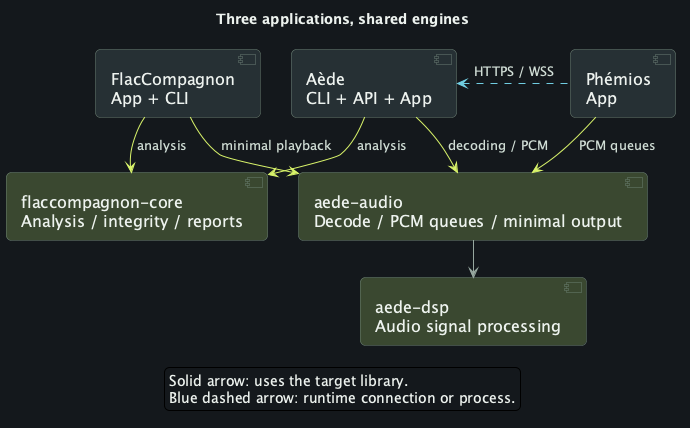
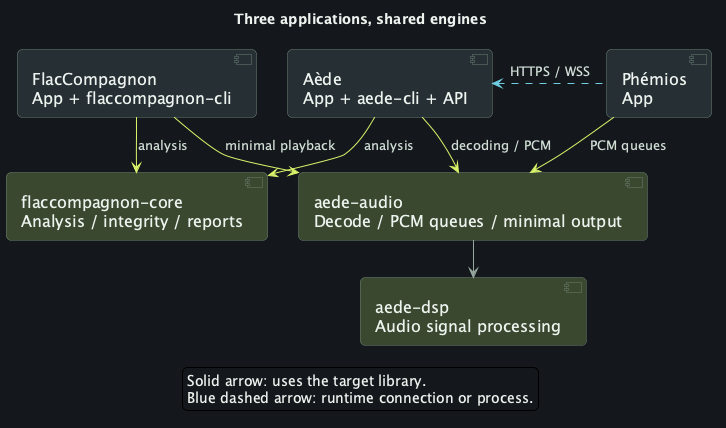
Add complete ecosystem diagrams and clarify CLI ownership

diff --git a/tools/render-ecosystem-diagrams.py b/tools/render-ecosystem-diagrams.py
@@ -64,10 +64,10 @@ def node(alias, language):
 
 def diagram(kind, language):
     fr = language == "fr"
-    title = ("Trois applications, des moteurs partagés" if fr else "Three applications, shared engines") if kind == "overview" else {"aede": "Aède", "flaccompagnon": "FlacCompagnon", "phemios": "Phémios"}[kind]
+    title = ("Trois applications, des moteurs partagés" if fr else "Three applications, shared engines") if kind == "overview" else {"aede": "Aède", "flaccompagnon": "FlacCompagnon", "phemios": "Phémios", "complete": "Écosystème complet" if fr else "Complete ecosystem"}[kind]
     lines = [f"@startuml {language}-{kind}", STYLE, f"title {title}"]
     if kind == "overview":
-        for alias, label in [("Flac", "FlacCompagnon\\nApp + CLI"), ("Aede", "Aède\\nCLI + API + App"), ("Phemios", "Phémios\\nApp")]:
+        for alias, label in [("Flac", "FlacCompagnon\\nApp + flaccompagnon-cli"), ("Aede", "Aède\\nApp + aede-cli + API"), ("Phemios", "Phémios\\nApp")]:
             lines.append(f'component "{label}" as {alias}')
         lines += [node(alias, language) for alias in ("FCore", "AAudio", "ADsp")]
         lines += ["Flac -[hidden]right-> Aede", "Aede -[hidden]right-> Phemios", 'Flac -[#D8F36A]-> FCore : ' + ("analyse" if fr else "analysis"), 'Aede -[#D8F36A]-> FCore : ' + ("analyse" if fr else "analysis"), 'Flac -[#D8F36A]-> AAudio : ' + ("lecture minimale" if fr else "minimal playback"), 'Aede -[#D8F36A]-> AAudio : ' + ("décodage / PCM" if fr else "decoding / PCM"), 'Phemios -[#D8F36A]-> AAudio : ' + ("files PCM" if fr else "PCM queues"), "AAudio --> ADsp", 'Phemios -[#71CDE1,dashed]left-> Aede : HTTPS / WSS']
@@ -76,19 +76,23 @@ def diagram(kind, language):
             "flaccompagnon": [("FlacCompagnon", ["FApp", "FCli", "FServices", "FCore"]), ("Aède · socle partagé" if fr else "Aède · shared foundation", ["AAudio", "ADsp"])],
             "aede": [("Console desktop" if fr else "Desktop console", ["AApp", "AConsole"]), ("Moteur Aède" if fr else "Aède engine", ["ACli", "AServer", "ADevices", "ACore", "AAccounts", "AMoods", "AAudio", "ADsp"]), ("FlacCompagnon", ["FCore"])],
             "phemios": [("Phémios", ["PApp", "PCore", "PCd", "PTransfer"]), ("Aède · socle partagé" if fr else "Aède · shared foundation", ["AAudio", "ADsp"])],
+            "complete": [("FlacCompagnon", ["FApp", "FCli", "FServices", "FCore"]), ("Aède", ["AApp", "AConsole", "ACli", "AServer", "ADevices", "ACore", "AAccounts", "AMoods", "AAudio", "ADsp"]), ("Phémios", ["PApp", "PCore", "PCd", "PTransfer"])],
         }
         for label, aliases in groups[kind]:
             lines += [f'package "{label}" {{'] + [node(alias, language) for alias in aliases] + ["}"]
         if kind == "flaccompagnon":
             lines.append("AAudio --> ADsp : output")
-        for edge in EDGES[kind]:
+        edges = list(dict.fromkeys(edge for application in EDGES.values() for edge in application)) if kind == "complete" else EDGES[kind]
+        for edge in edges:
             source, target, *label = edge
             color = " -[#D8F36A]-> " if (source.startswith("F") != target.startswith("F") or source.startswith("P") != target.startswith("P")) else " --> "
             lines.append(source + color + target + (" : " + label[0] if label else ""))
-        if kind == "aede":
+        if kind in ("aede", "complete"):
             lines.append('AConsole -[#71CDE1,dashed]right-> ACli : ' + ("lance un processus" if fr else "starts a process"))
         if kind == "phemios":
             lines += ['component "aede-server\\nHTTPS / WSS" as AServer', "PCore -[#71CDE1,dashed]-> AServer : API", 'PApp -[#71CDE1,dashed]-> AServer : ' + ("via le pont natif" if fr else "via native bridge")]
+        if kind == "complete":
+            lines += ["PCore -[#71CDE1,dashed]-> AServer : HTTPS / WSS", 'PApp -[#71CDE1,dashed]-> AServer : ' + ("via le pont natif" if fr else "via native bridge")]
     lines += ["legend bottom", ("Flèche pleine : utilise la bibliothèque cible." if fr else "Solid arrow: uses the target library."), ("Pointillés bleus : connexion ou processus à l’exécution." if fr else "Blue dashed arrow: runtime connection or process."), "endlegend", "@enduml", ""]
     return "\n".join(lines)
 
@@ -104,13 +108,13 @@ def main():
     assets.mkdir(parents=True, exist_ok=True)
     command = [args.java, "-Djava.awt.headless=true", "-DPLANTUML_SECURITY_PROFILE=SANDBOX", "-jar", str(args.jar.resolve())]
     for language in ("en", "fr"):
-        for kind in ("overview", "aede", "flaccompagnon", "phemios"):
+        for kind in ("overview", "aede", "flaccompagnon", "phemios", "complete"):
             source = sources / f"{language}-{kind}.puml"
             source.write_text(diagram(kind, language), encoding="utf-8")
             subprocess.run(command + ["--check-syntax", str(source)], check=True)
             for extension in ("svg", "png"):
                 subprocess.run(command + ["--format", extension, "--output-dir", str(assets), str(source)], check=True)
-    print("Eight bilingual diagrams validated and rendered locally.")
+    print("Ten bilingual diagrams validated and rendered locally.")
 
 
 if __name__ == "__main__":

diff --git a/tools/build_site_tests.py b/tools/build_site_tests.py
@@ -157,7 +157,7 @@ class HomeTests(unittest.TestCase):
             for language in ("en", "fr"):
                 page = (destination / f"docs/{language}/manual/ecosystem.html").read_text(encoding="utf-8")
                 self.assertEqual(page.count('<details class="ecosystem-detail">'), 3)
-                for kind in ("overview", "aede", "flaccompagnon", "phemios"):
+                for kind in ("overview", "aede", "flaccompagnon", "phemios", "complete"):
                     name = f"{language}-{kind}"
                     self.assertIn(f'assets/architecture/{name}.svg', page)
                     self.assertNotIn(f'assets/architecture/{"fr" if language == "en" else "en"}-{kind}.svg', page)

diff --git a/docs/fr/manual/ecosystem.md b/docs/fr/manual/ecosystem.md
@@ -2,11 +2,11 @@
 
 FlacCompagnon analyse la qualité et l’intégrité des fichiers audio. Aède organise le catalogue musical, ses métadonnées et ses accès, et fournit les services de lecture et de serveur. Phémios est l’interface pour explorer cette bibliothèque et écouter sa musique.
 
-Leurs crates Rust partagent deux socles : `flaccompagnon-core` pour les analyses, et `aede-audio` / `aede-dsp` pour les primitives de lecture audio. La vue d’ensemble présente ces réutilisations ; les trois schémas dépliables détaillent ensuite les composants de chaque application.
+Leurs crates Rust partagent deux socles : `flaccompagnon-core` pour les analyses, et `aede-audio` / `aede-dsp` pour les primitives de lecture audio. La vue d’ensemble présente ces réutilisations ; les trois schémas dépliables détaillent ensuite les composants de chaque application. Un diagramme complet réunit toutes les crates en fin de page.
 
 ## Vue d’ensemble
 
-<figure class="ecosystem-diagram"><a href="../../../site/assets/architecture/fr-overview.svg"><img src="../../../site/assets/architecture/fr-overview.svg" alt="Partage du moteur d’analyse et du socle audio" width="686" height="429" loading="lazy"></a><figcaption>Partage du moteur d’analyse et du socle audio</figcaption></figure>
+<figure class="ecosystem-diagram"><a href="../../../site/assets/architecture/fr-overview.svg"><img src="../../../site/assets/architecture/fr-overview.svg" alt="Partage du moteur d’analyse et du socle audio" width="730" height="429" loading="lazy"></a><figcaption>Partage du moteur d’analyse et du socle audio</figcaption></figure>
 
 [Ouvrir le SVG](../../../site/assets/architecture/fr-overview.svg) · [PNG](../../../site/assets/architecture/fr-overview.png) · [PlantUML](../../diagrams/ecosystem/fr-overview.puml)
 
@@ -19,6 +19,8 @@ Leurs crates Rust partagent deux socles : `flaccompagnon-core` pour les analyses
 ### FlacCompagnon — analyser et examiner
 
 `flaccompagnon` est l’App desktop ; `flaccompagnon-cli` est l’analyseur en ligne de commande. Ils utilisent `flaccompagnon-core`, tandis que `flaccompagnon-services` gère l’édition des tags, les conversions et l’organisation des fichiers.
+
+FlacCompagnon n’embarque pas et ne lance pas `aede-cli`. Sa CLI est bien `flaccompagnon-cli` ; seules les bibliothèques audio d’Aède sont réutilisées pour la préécoute.
 
 L’App utilise `aede-audio/output` pour une lecture locale minimale, sans serveur ni compte Aède, normalisation ou fondu. Son cœur utilise aussi `aede-audio/decode` pour les fonctions de lecture. L’analyse conserve son propre décodage et ses mesures à la précision d’origine : les traitements de préécoute ne modifient pas ses résultats.
 
@@ -73,3 +75,11 @@ La préparation des builds natifs des clients sélectionne une version stable pu
 Les schémas couvrent les 18 crates de production des trois dépôts, y compris le workspace desktop indépendant d’Aède. Les dépendances tierces, de build et de développement, ainsi que la crate de test `phemios-glib-regression`, sont omises. Ils ne certifient pas la compatibilité des appareils physiques.
 
 Pour les limites des fonctionnalités et les règles de mise à jour, consultez le [socle audio commun](../../design/shared-audio.md). Poursuivez avec l’[App serveur](../desktop.md) ou l’[API native](../api.md).
+
+## Écosystème complet
+
+Cette vue réunit les 18 crates et leurs dépendances directes entre projets ou au sein de chaque projet. Chaque cadre indique le dépôt qui maintient les crates : `aede-cli` appartient à Aède, `flaccompagnon-cli` à FlacCompagnon. Les liaisons bleues restent des communications à l’exécution, distinctes des dépendances Cargo. Ouvrez le SVG pour examiner le schéma en grand.
+
+<figure class="ecosystem-diagram"><a href="../../../site/assets/architecture/fr-complete.svg"><img src="../../../site/assets/architecture/fr-complete.svg" alt="Les 18 crates de FlacCompagnon, Aède et Phémios et leurs liens" width="2537" height="975" loading="lazy"></a><figcaption>Les trois programmes et leurs bibliothèques partagées, réunis dans une seule vue</figcaption></figure>
+
+[Ouvrir le SVG](../../../site/assets/architecture/fr-complete.svg) · [PNG](../../../site/assets/architecture/fr-complete.png) · [PlantUML](../../diagrams/ecosystem/fr-complete.puml)

diff --git a/docs/manual/ecosystem.md b/docs/manual/ecosystem.md
@@ -2,11 +2,11 @@
 
 FlacCompagnon checks audio quality and integrity. Aède organizes the music catalogue, its metadata and access, and supplies server and playback services. Phémios is the interface for exploring the library and listening to music.
 
-Their Rust crates share two foundations: `flaccompagnon-core` for analysis, and `aede-audio` / `aede-dsp` for audio playback primitives. The overview shows these reuse boundaries; the three expandable diagrams below show each application's own components.
+Their Rust crates share two foundations: `flaccompagnon-core` for analysis, and `aede-audio` / `aede-dsp` for audio playback primitives. The overview shows these reuse boundaries; the three expandable diagrams below show each application's own components. A complete diagram brings every crate together at the end of the page.
 
 ## At a glance
 
-<figure class="ecosystem-diagram"><a href="../../site/assets/architecture/en-overview.svg"><img src="../../site/assets/architecture/en-overview.svg" alt="Shared analysis and audio foundations" width="691" height="429" loading="lazy"></a><figcaption>Shared analysis and audio foundations</figcaption></figure>
+<figure class="ecosystem-diagram"><a href="../../site/assets/architecture/en-overview.svg"><img src="../../site/assets/architecture/en-overview.svg" alt="Shared analysis and audio foundations" width="727" height="429" loading="lazy"></a><figcaption>Shared analysis and audio foundations</figcaption></figure>
 
 [Open SVG](../../site/assets/architecture/en-overview.svg) · [PNG](../../site/assets/architecture/en-overview.png) · [PlantUML](../diagrams/ecosystem/en-overview.puml)
 
@@ -19,6 +19,8 @@ Their Rust crates share two foundations: `flaccompagnon-core` for analysis, and 
 ### FlacCompagnon — analyze and inspect
 
 `flaccompagnon` is the desktop App; `flaccompagnon-cli` is the command-line analyzer. They use `flaccompagnon-core`, while `flaccompagnon-services` owns tag editing, conversions and file organization.
+
+FlacCompagnon does not embed or launch `aede-cli`. Its CLI is `flaccompagnon-cli`; only Aède's audio libraries are reused for preview playback.
 
 The App uses `aede-audio/output` for minimal local playback, without an Aède server/account, normalization or crossfade. Its core also uses `aede-audio/decode` for playback helpers. Actual analysis keeps its own original-precision decoding and measurements: preview processing does not alter analysis results.
 
@@ -73,3 +75,11 @@ Native client build preparation selects a published stable Aède release and rec
 These diagrams cover all 18 production crates across the three repositories, including Aède's independent desktop workspace. Third-party dependencies, build/dev dependencies and the `phemios-glib-regression` test crate are omitted. The diagrams do not certify physical-device compatibility.
 
 For feature boundaries and update rules, read the [shared audio foundation](../design/shared-audio.md). Continue with the [server App](../desktop.md) or the [native API](../api.md).
+
+## Complete ecosystem
+
+This view brings together all 18 crates and their direct dependencies, both within and across projects. Each frame identifies the repository maintaining its crates: `aede-cli` belongs to Aède, `flaccompagnon-cli` to FlacCompagnon. Blue connections remain runtime communication, separate from Cargo dependencies. Open the SVG to inspect the diagram at full size.
+
+<figure class="ecosystem-diagram"><a href="../../site/assets/architecture/en-complete.svg"><img src="../../site/assets/architecture/en-complete.svg" alt="All 18 FlacCompagnon, Aède and Phémios crates and their connections" width="2399" height="975" loading="lazy"></a><figcaption>The three applications and their shared libraries, together in one view</figcaption></figure>
+
+[Open SVG](../../site/assets/architecture/en-complete.svg) · [PNG](../../site/assets/architecture/en-complete.png) · [PlantUML](../diagrams/ecosystem/en-complete.puml)

diff --git a/docs/coding/current-state.md b/docs/coding/current-state.md
@@ -17,7 +17,7 @@ The catalogue is graph-based and common to installation accounts. Personal annot
 - Local playback supports without-effects, DSP and a narrowly admitted direct-ALSA strict bit-perfect route. Native remote PCM uses client consumed-frame ACKs; local history has a different submitted/estimated timing boundary. See [playback](../design/playback.md), [DSP](dsp-review.md) and [acceptance](bit-perfect-acceptance.md).
 - UPnP, OpenHome, Cast and SlimProto reuse `aede-devices`. Authenticated graphical profiles use exact-login ownership, a finite queue and heartbeat leases; physical interoperability remains separate. See [devices](../server/devices.md).
 
-The bilingual [shared architecture guide](../manual/ecosystem.md) presents the three applications and their reusable crates with localized UML overview/detail diagrams. The [shared audio foundation](../design/shared-audio.md) supplies common PCM primitives across the three repositories. It reuses the existing DSP and provides an optional minimal FlacCompagnon player without Aède accounts/server or loudness effects. Client native build preparation automatically selects the latest published stable Aède release and records its exact SHA in workspace dependencies and lockfiles. Each GitHub run freezes one selection across platforms; Phémios builds its embedded engine from that same source. No sibling checkout is required. Published `v0.7.1` includes the shared crates that were absent from `v0.6.1`. The 0.7.5 candidate adds cached label-logo presentation and language-aware biography refreshes while retaining the stable collection identities introduced in 0.7.4, the failure-close correction and the Linux ARM64 musl CLI archive whose native tests run in the release workflow; a draft is not selected by stable-source preparation. Native platform builds remain separate acceptance checks.
+The bilingual [shared architecture guide](../manual/ecosystem.md) presents the three applications and their reusable crates with localized UML overview/detail diagrams and a complete ecosystem view. The [shared audio foundation](../design/shared-audio.md) supplies common PCM primitives across the three repositories. It reuses the existing DSP and provides an optional minimal FlacCompagnon player without Aède accounts/server or loudness effects. Client native build preparation automatically selects the latest published stable Aède release and records its exact SHA in workspace dependencies and lockfiles. Each GitHub run freezes one selection across platforms; Phémios builds its embedded engine from that same source. No sibling checkout is required. Published `v0.7.1` includes the shared crates that were absent from `v0.6.1`. The 0.7.5 candidate adds cached label-logo presentation and language-aware biography refreshes while retaining the stable collection identities introduced in 0.7.4, the failure-close correction and the Linux ARM64 musl CLI archive whose native tests run in the release workflow; a draft is not selected by stable-source preparation. Native platform builds remain separate acceptance checks.
 
 Aède 0.7.4 collection identity uses opaque persistent IDs, owner-scoped ID selectors and the `collection_identity` capability. Personal stores read formats 1/2 and write format 3 to prevent older engines silently dropping IDs. See [migration and downgrade limits](../server/presentation.md#stable-collection-identity). New collections propagate OS-random generation errors; name-based CLI/API compatibility remains available.
 

diff --git a/site/README.md b/site/README.md
@@ -106,7 +106,7 @@ FormSubmit activation is a recipient-side setup step. Initially, the form action
 
 ## Shared architecture diagrams
 
-The bilingual [ecosystem guide](../docs/manual/ecosystem.md) has a compact shared-library overview and three expandable application component diagrams. Editable PlantUML sources live in `docs/diagrams/ecosystem/`; checked-in SVG/PNG assets live in `site/assets/architecture/`. Regenerate them locally with an official PlantUML JAR and Java:
+The bilingual [ecosystem guide](../docs/manual/ecosystem.md) has a compact shared-library overview, three expandable application component diagrams and a complete ecosystem diagram at the end. Each crate belongs to its maintaining project; FlacCompagnon's CLI is `flaccompagnon-cli`, not `aede-cli`. Editable PlantUML sources live in `docs/diagrams/ecosystem/`; checked-in SVG/PNG assets live in `site/assets/architecture/`. Regenerate them locally with an official PlantUML JAR and Java:
 
 ```sh
 python3 tools/render-ecosystem-diagrams.py --jar /path/to/plantuml.jar
